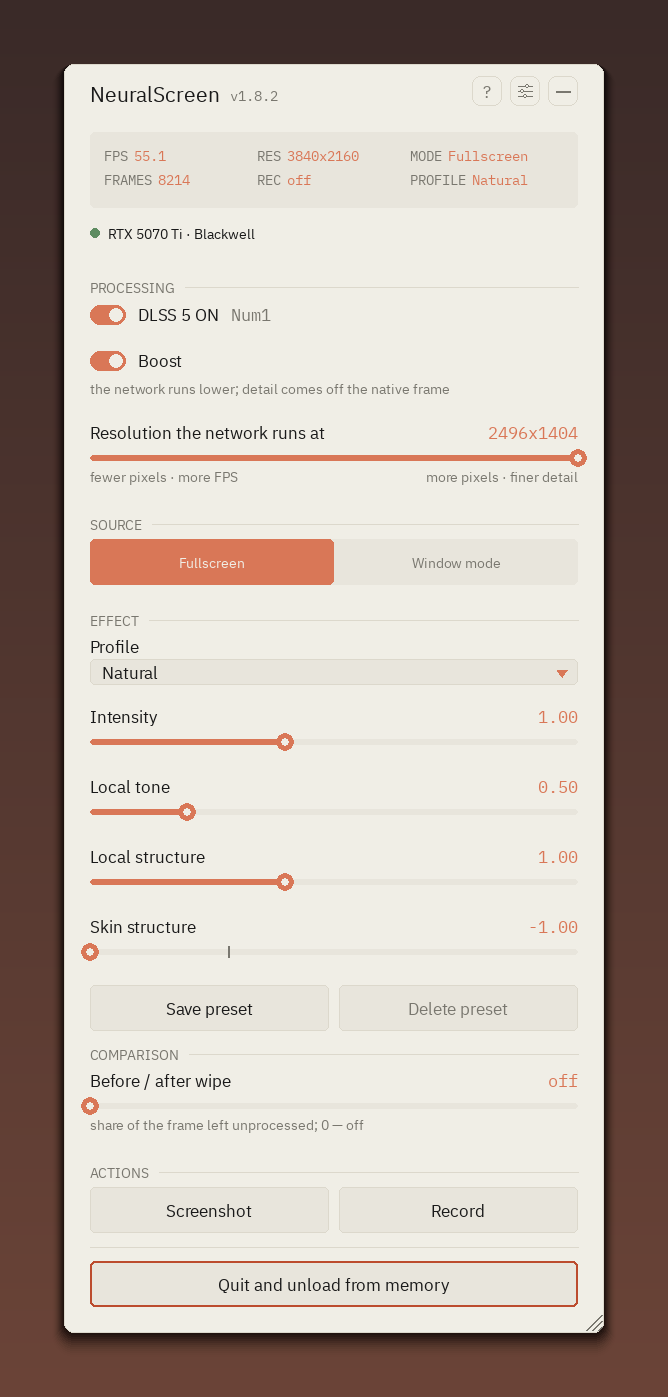
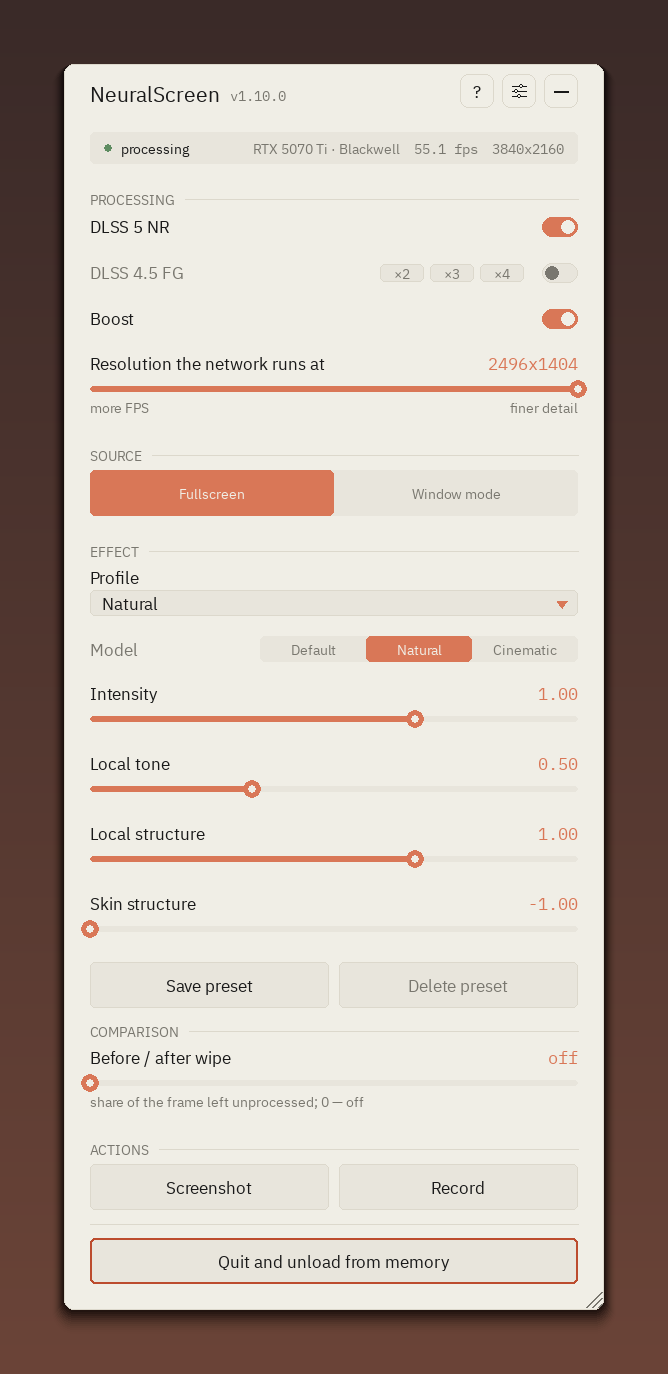
docs: v1.10.0 screenshots and the FG / BYO-libraries chapters
The menu renders moved to the release UI (switches on the right,
'DLSS 5 NR' / 'DLSS 4.5 FG' labels, the x2/x3/x4 multiplier in the FG
row) and the version badge reads 1.10.0. The README gains the FG bullet
(flat depth, estimated motion, the two-rate header, 50-series validated),
the native/libraries/ chapter, and the known-issue entry for the
window-mode active-state bug - marked in progress. TECHNICAL gains the
same two chapters in EN/RU.

diff --git a/README.ru.md b/README.ru.md
@@ -111,6 +111,14 @@ Windows, скорее всего, предупредит о неизвестно
   **45.7 → 72.6 кадра** на положении по умолчанию и **83.4** на самом нижнем.
   Картинка остаётся резкой: результат сети ложится на ваш исходный кадр,
   поэтому текст и края сохраняют полное разрешение. Выключите, чтобы сравнить.
+- **DLSS 4.5 FG** — генерация кадров, включается отдельно, с множителем
+  ×2 / ×3 / ×4 рядом с переключателем. Настольный DLSS-G: глубина плоская,
+  движение оценённое, кооперации с движком нет — поэтому интерфейс и текст
+  могут искажаться; это известная цена подхода, а не баг. В шапке, когда
+  числа расходятся, стоят оба честных значения: «47 / 111 кадр» — скорость
+  сети, затем то, что реально показывает презентер. Проверено на RTX 50-й
+  серии; остальные адаптеры не подтверждены. Нужен `nvngx_dlssg.dll` —
+  см. «Свой рантайм».
 
 Всё остальное — под иконкой ползунков: какой монитор обрабатывать и какой
 картой, совместимость с HDR, папка для скриншотов, вывод в Spout2, индикатор
@@ -118,6 +126,15 @@ Windows, скорее всего, предупредит о неизвестно
 автозапуск, назначение клавиш, тема — и язык, которых **12**: английский,
 русский, французский, немецкий, испанский, итальянский, португальский,
 польский, украинский, китайский, японский и корейский.
+
+## Свой рантайм
+
+Приложение больше ничего не скачивает. NR-рантайм лежит в архиве; остальные
+ставите сами: положите `nvngx_dlssg.dll` (генерация кадров) или
+`nvngx_dlssnr.dll` в папку **`native/libraries/`** рядом с программой — она
+имеет приоритет над копией из архива. Внутри папки README на двух языках.
+Ключ конфига `nr_dll` и переменная окружения `NS_NR_DLL` остаются
+переопределением для NR.
 
 ## Запись и скриншоты
 
@@ -165,6 +182,10 @@ Windows, скорее всего, предупредит о неизвестно
 - **Windows 10 и две видеокарты NVIDIA — экспериментально:** сделано или починено по логам пользователей, а не проверено здесь. Отчёты приветствуются.
 - **Повёрнутый экран:** поворот на 180° разворачивается обратно при захвате; 90° и 270° пока не обрабатываются — стороны выходят переставленными.
 - **Задержка конвейера** 40–60 мс (17-20 мс с Boost Mode) — для интерактива нормально, для соревновательной игры нет; **разрешение обработки ограничено 2560×1440**, на выходе всегда ваше полное родное разрешение.
+- **Режим окна, баг активного состояния (в работе):** когда фокус забирает
+  другое окно, окно с NR может перестать отвечать на перетаскивание. Аудит
+  нашёл семь источников; три починены (шторм переоткрытий WGC при ресайзе,
+  churn z-order, fence-токен FG), остальное в работе.
 
 ## Лицензия
 

diff --git a/README.md b/README.md
@@ -113,6 +113,13 @@ running on it, red when it is not.
   The picture stays sharp — the network's result is composed onto your
   original frame, so text and edges keep full resolution. Turn it off to
   compare.
+- **DLSS 4.5 FG** — Frame Generation, opt-in, with a ×2 / ×3 / ×4 multiplier
+  beside the switch. DLSS-G's own desktop build: the depth is flat and the
+  motion is estimated, there is no engine cooperation, so UI and text can
+  distort — that is the known cost of the approach. The header pairs the two
+  honest rates when they differ: "47 / 111 fps" is the network's output, then
+  what the presenter shows. Validated on RTX 50-series; other adapters are
+  unconfirmed. Needs `nvngx_dlssg.dll` — see *Bringing your own runtime*.
 
 Everything else is behind the sliders icon: which monitor is processed and
 which card does it, HDR compatibility, the screenshot folder, Spout2 output,
@@ -120,6 +127,15 @@ the recording indicator, leaving an unchanged screen alone, opening the menu
 on launch, autostart, the key assignments, the theme — and the language, of
 which there are **12**: English, Russian, French, German, Spanish, Italian,
 Portuguese, Polish, Ukrainian, Chinese, Japanese and Korean.
+
+## Bringing your own runtime
+
+The app no longer downloads anything. The NR runtime ships in the archive;
+the optional ones are yours to add: drop `nvngx_dlssg.dll` (Frame Generation)
+or `nvngx_dlssnr.dll` into **`native/libraries/`** next to the program and it
+wins over the bundled copy — a bilingual README sits in that folder. The
+`nr_dll` config key and the `NS_NR_DLL` environment variable remain the NR
+override.
 
 ## Recording and screenshots
 
@@ -166,6 +182,10 @@ under CAPTURE — it is experimental; see [HDR setup](https://github.com/perseva
 - **Windows 10 and two NVIDIA cards are experimental** — built or fixed from user logs rather than tested here. Reports welcome.
 - **A rotated display:** 180° is turned back over on capture; 90° and 270° are not handled yet and come out with the sides swapped.
 - **Pipeline latency** is 40–60 ms (17-20ms with Boost Mode) — fine interactively, not competitively; **processing resolution is capped at 2560×1440**, output is always your full native resolution.
+- **Window mode, active-state bug (in progress):** when another window takes
+  focus, the NR window can stop responding to dragging. An audit found seven
+  sources; three are fixed (z-order churn, the WGC resize reopen loop, the FG
+  fence token) and the rest is under active work.
 
 ## License
 

diff --git a/TECHNICAL.ru.md b/TECHNICAL.ru.md
@@ -406,3 +406,26 @@ native\build-host.bat
 `native/include/`.
 
 Артефакт `native/nvngx.dll` в репозиторий не кладётся.
+
+## Генерация кадров на рабочем столе (опционально)
+
+Настольная сборка DLSS-G работает после нейропрохода: презентер просит FG-фичу
+интерполировать между последовательными выходными кадрами. Глубина на входе
+плоская, движение оценено покадрово - кооперации с движком нет, поэтому
+интерфейс и текст могут искажаться там, где оценка движения ошибается; это
+свойство экранного подхода, а не вопрос настройки. Множитель x2/x3/x4
+(контракт DLSS-G выше не даёт), переключатель опциональный, в шапке оба
+значения - скорость сети и скорость презентера - когда они расходятся.
+
+FG-рантайм (`nvngx_dlssg.dll`) **не поставляется**: та же лицензионная
+позиция, что и у SR - редистрибутив NVIDIA нельзя включать в архив. Положите
+его в `native/libraries/` (README внутри); без DLL переключатель вежливо
+откажет, ничего не ломается.
+
+## Рантаймы и папка libraries
+
+NR-рантайм лежит в архиве; опциональный FG-рантайм пользователь ставит сам в
+`native/libraries/` - эта папка приоритетнее `native/` для всех рантаймов,
+которые ищет загрузчик. Сетевого доступа нет: прежний автоапдейтер удалён, а
+вместе с ним дефект, при котором тогглер `library_updates_enabled` никогда
+не сохранялся.

diff --git a/TECHNICAL.md b/TECHNICAL.md
@@ -473,3 +473,27 @@ builds `dlss5-feed-host64.cpp` into `native/nvngx.dll`, linking
 `native/include/`.
 
 The artifact `native/nvngx.dll` is not committed to the repo.
+
+## Frame Generation on the desktop (opt-in)
+
+DLSS-G's desktop build runs after the neural pass: the presenter asks the FG
+feature to interpolate between consecutive output frames. The depth fed to it
+is flat and the motion is estimated per frame - there is no engine
+cooperation - so UI and text can distort where motion estimation guesses
+wrong; that is inherent to the screen-space approach, not a tuning issue.
+The multiplier is x2/x3/x4 (the DLSS-G contract caps there), the switch is
+opt-in, and the header reports both rates - the network's and the presenter's
+- whenever they differ.
+
+The FG runtime (`nvngx_dlssg.dll`) is **not shipped**: same license position
+as SR - NVIDIA's redistributable cannot be bundled. Put it in
+`native/libraries/` (see the README there); absent the DLL, the switch
+refuses politely and nothing breaks.
+
+## Runtimes and the libraries folder
+
+The NR runtime ships in the archive; the optional FG one is user-supplied in
+`native/libraries/`, which takes priority over `native/` for every runtime
+the loader looks for. There is no network access: the former auto-updater was
+removed, and with it a latent defect where the `library_updates_enabled`
+toggle never persisted.
